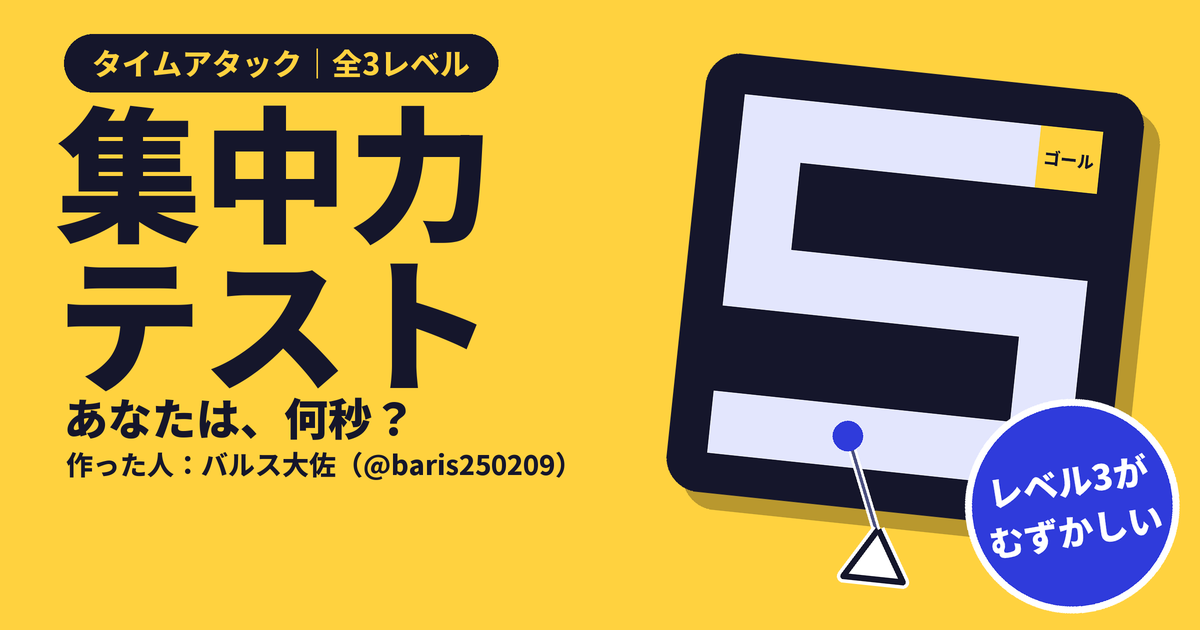
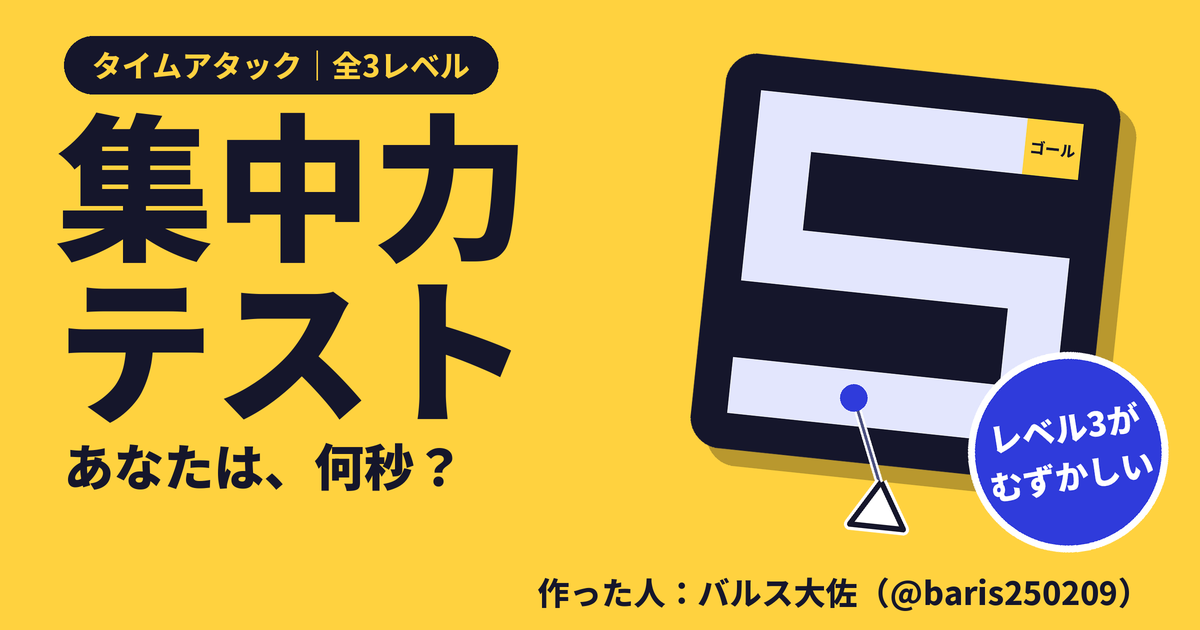
リンクを貼ったときの画像：文字の間隔を戻し、作った人を右下に
- 左の文字を、もとの大きさと間隔に戻す
- 作った人の表示を右下に移して、文字を大きくする（左下はXのラベルが重なるため）
- そのぶん、迷路とシールを少し小さくして上げる
- index.html は変えていない

diff --git a/tools/make_ogp.py b/tools/make_ogp.py
@@ -1,7 +1,7 @@
 """集中力テストのリンクカード画像（1200×630）を作る。黄色い地に黒い題名、かたむけた迷路、青いシール。ドッキリだと分かる絵・言葉は入れない。
 使い方: python tools/make_ogp.py ogp.png ["作った人の表示（入れるときだけ）"]
 文字は Noto Sans JP（SIL Open Font License）を使う。フォントは Windows の場所（C:/Windows/Fonts）を見にいく。
-Xは画像の左下に題名のラベルを重ねるので、作った人を入れるときは、左の文字を上に詰めて左下を空ける。"""
+Xは画像の左下に題名のラベルを重ねるので、作った人は右下に置く（そのぶん、迷路を少し小さくして上げる）。左下には文字を置かない。"""
 import sys
 from PIL import Image, ImageDraw, ImageFont
 
@@ -9,11 +9,11 @@ if len(sys.argv) < 2:
     sys.exit('使い方: python tools/make_ogp.py ogp.png ["作った人の表示（入れるときだけ）"]')
 out = sys.argv[1]
 credit = sys.argv[2] if len(sys.argv) > 2 else ""
-# 左の文字の置き場所（たての位置は文字のまん中）。作った人を入れるときは、全体を上に詰める
+# 置き場所（たての位置は文字のまん中）。作った人を入れるときは、右下に1行で置き、迷路とシールを少し小さくして上げる
 if credit:
-    LAY = dict(pill=34, title=146, t1=172, t2=322, sub=44, sub_y=418, credit=27, credit_y=464)
+    LAY = dict(pill=36, t1=185, t2=348, sub_y=466, card=0.9, card_xy=(905, 268), seal=200, seal_xy=(1068, 452), seal_f=33, seal_dy=24)
 else:
-    LAY = dict(pill=56, title=158, t1=205, t2=368, sub=50, sub_y=486)
+    LAY = dict(pill=56, t1=205, t2=368, sub_y=486, card=1, card_xy=(905, 292), seal=214, seal_xy=(1072, 506), seal_f=35, seal_dy=25)
 K = 2                      # 2倍で描いて、最後に半分にする（ふちをなめらかに）
 W, H = 1200 * K, 630 * K
 YEL, INK, PATH, DOT, WHITE = "#FFD23F", "#15162B", "#E3E6FD", "#2F3BDB", "#FFFFFF"
@@ -34,13 +34,11 @@ pill = "タイムアタック｜全3レベル"
 pw = d.textlength(pill, font=f_pill)
 d.rounded_rectangle([s(64), s(LAY["pill"]), s(64) + pw + s(56), s(LAY["pill"] + 58)], radius=s(29), fill=INK)
 d.text((s(64 + 28), s(LAY["pill"] + 29)), pill, font=f_pill, fill=YEL, anchor="lm")
-f_title = font(LAY["title"])
+f_title = font(158)
 d.text((s(56), s(LAY["t1"])), "集中力", font=f_title, fill=INK, anchor="lm")
 d.text((s(56), s(LAY["t2"])), "テスト", font=f_title, fill=INK, anchor="lm")
-f_sub = font(LAY["sub"], 900)
+f_sub = font(50, 900)
 d.text((s(64), s(LAY["sub_y"])), "あなたは、何秒？", font=f_sub, fill=INK, anchor="lm")
-if credit:
-    d.text((s(66), s(LAY["credit_y"])), credit, font=font(LAY["credit"], 800), fill=INK, anchor="lm")
 
 # ---- 右：かたむけた迷路のカード ----
 C = 440                                   # カードの1辺
@@ -72,20 +70,27 @@ card = L.rotate(ANG, resample=Image.BICUBIC, expand=True)
 sh = Image.new("RGBA", L.size, (0, 0, 0, 0))
 ImageDraw.Draw(sh).rounded_rectangle(R(0, 0, C, C), radius=s(34), fill=(0, 0, 0, 70))
 sh = sh.rotate(ANG, resample=Image.BICUBIC, expand=True)
-cx, cy = s(905), s(292)
+if LAY["card"] != 1:
+    size = (round(card.width * LAY["card"]), round(card.height * LAY["card"]))
+    card, sh = card.resize(size, Image.LANCZOS), sh.resize(size, Image.LANCZOS)
+cx, cy = s(LAY["card_xy"][0]), s(LAY["card_xy"][1])
 im.paste(sh, (cx - sh.width // 2 + s(16), cy - sh.height // 2 + s(18)), sh)
 im.paste(card, (cx - card.width // 2, cy - card.height // 2), card)
 
 # ---- 右下：青いシール ----
-D = 214
+D = LAY["seal"]
 st = Image.new("RGBA", (s(D + 20), s(D + 20)), (0, 0, 0, 0))
 sd = ImageDraw.Draw(st)
 sd.ellipse([s(10), s(10), s(10 + D), s(10 + D)], fill=DOT, outline=WHITE, width=s(7))
-f_st = font(35, 900)
-sd.text((s(10 + D / 2), s(10 + D / 2 - 25)), "レベル3が", font=f_st, fill=WHITE, anchor="mm")
-sd.text((s(10 + D / 2), s(10 + D / 2 + 25)), "むずかしい", font=f_st, fill=WHITE, anchor="mm")
+f_st = font(LAY["seal_f"], 900)
+sd.text((s(10 + D / 2), s(10 + D / 2 - LAY["seal_dy"])), "レベル3が", font=f_st, fill=WHITE, anchor="mm")
+sd.text((s(10 + D / 2), s(10 + D / 2 + LAY["seal_dy"])), "むずかしい", font=f_st, fill=WHITE, anchor="mm")
 st = st.rotate(9, resample=Image.BICUBIC, expand=True)
-im.paste(st, (s(1072) - st.width // 2, s(506) - st.height // 2), st)
+im.paste(st, (s(LAY["seal_xy"][0]) - st.width // 2, s(LAY["seal_xy"][1]) - st.height // 2), st)
+
+# ---- 右下：作った人（左下はXのラベルにかくれるので、右に寄せる） ----
+if credit:
+    d.text((s(1150), s(592)), credit, font=font(32, 800), fill=INK, anchor="rm")
 
 im = im.resize((1200, 630), Image.LANCZOS)
 im.save(out, "PNG", optimize=True)
